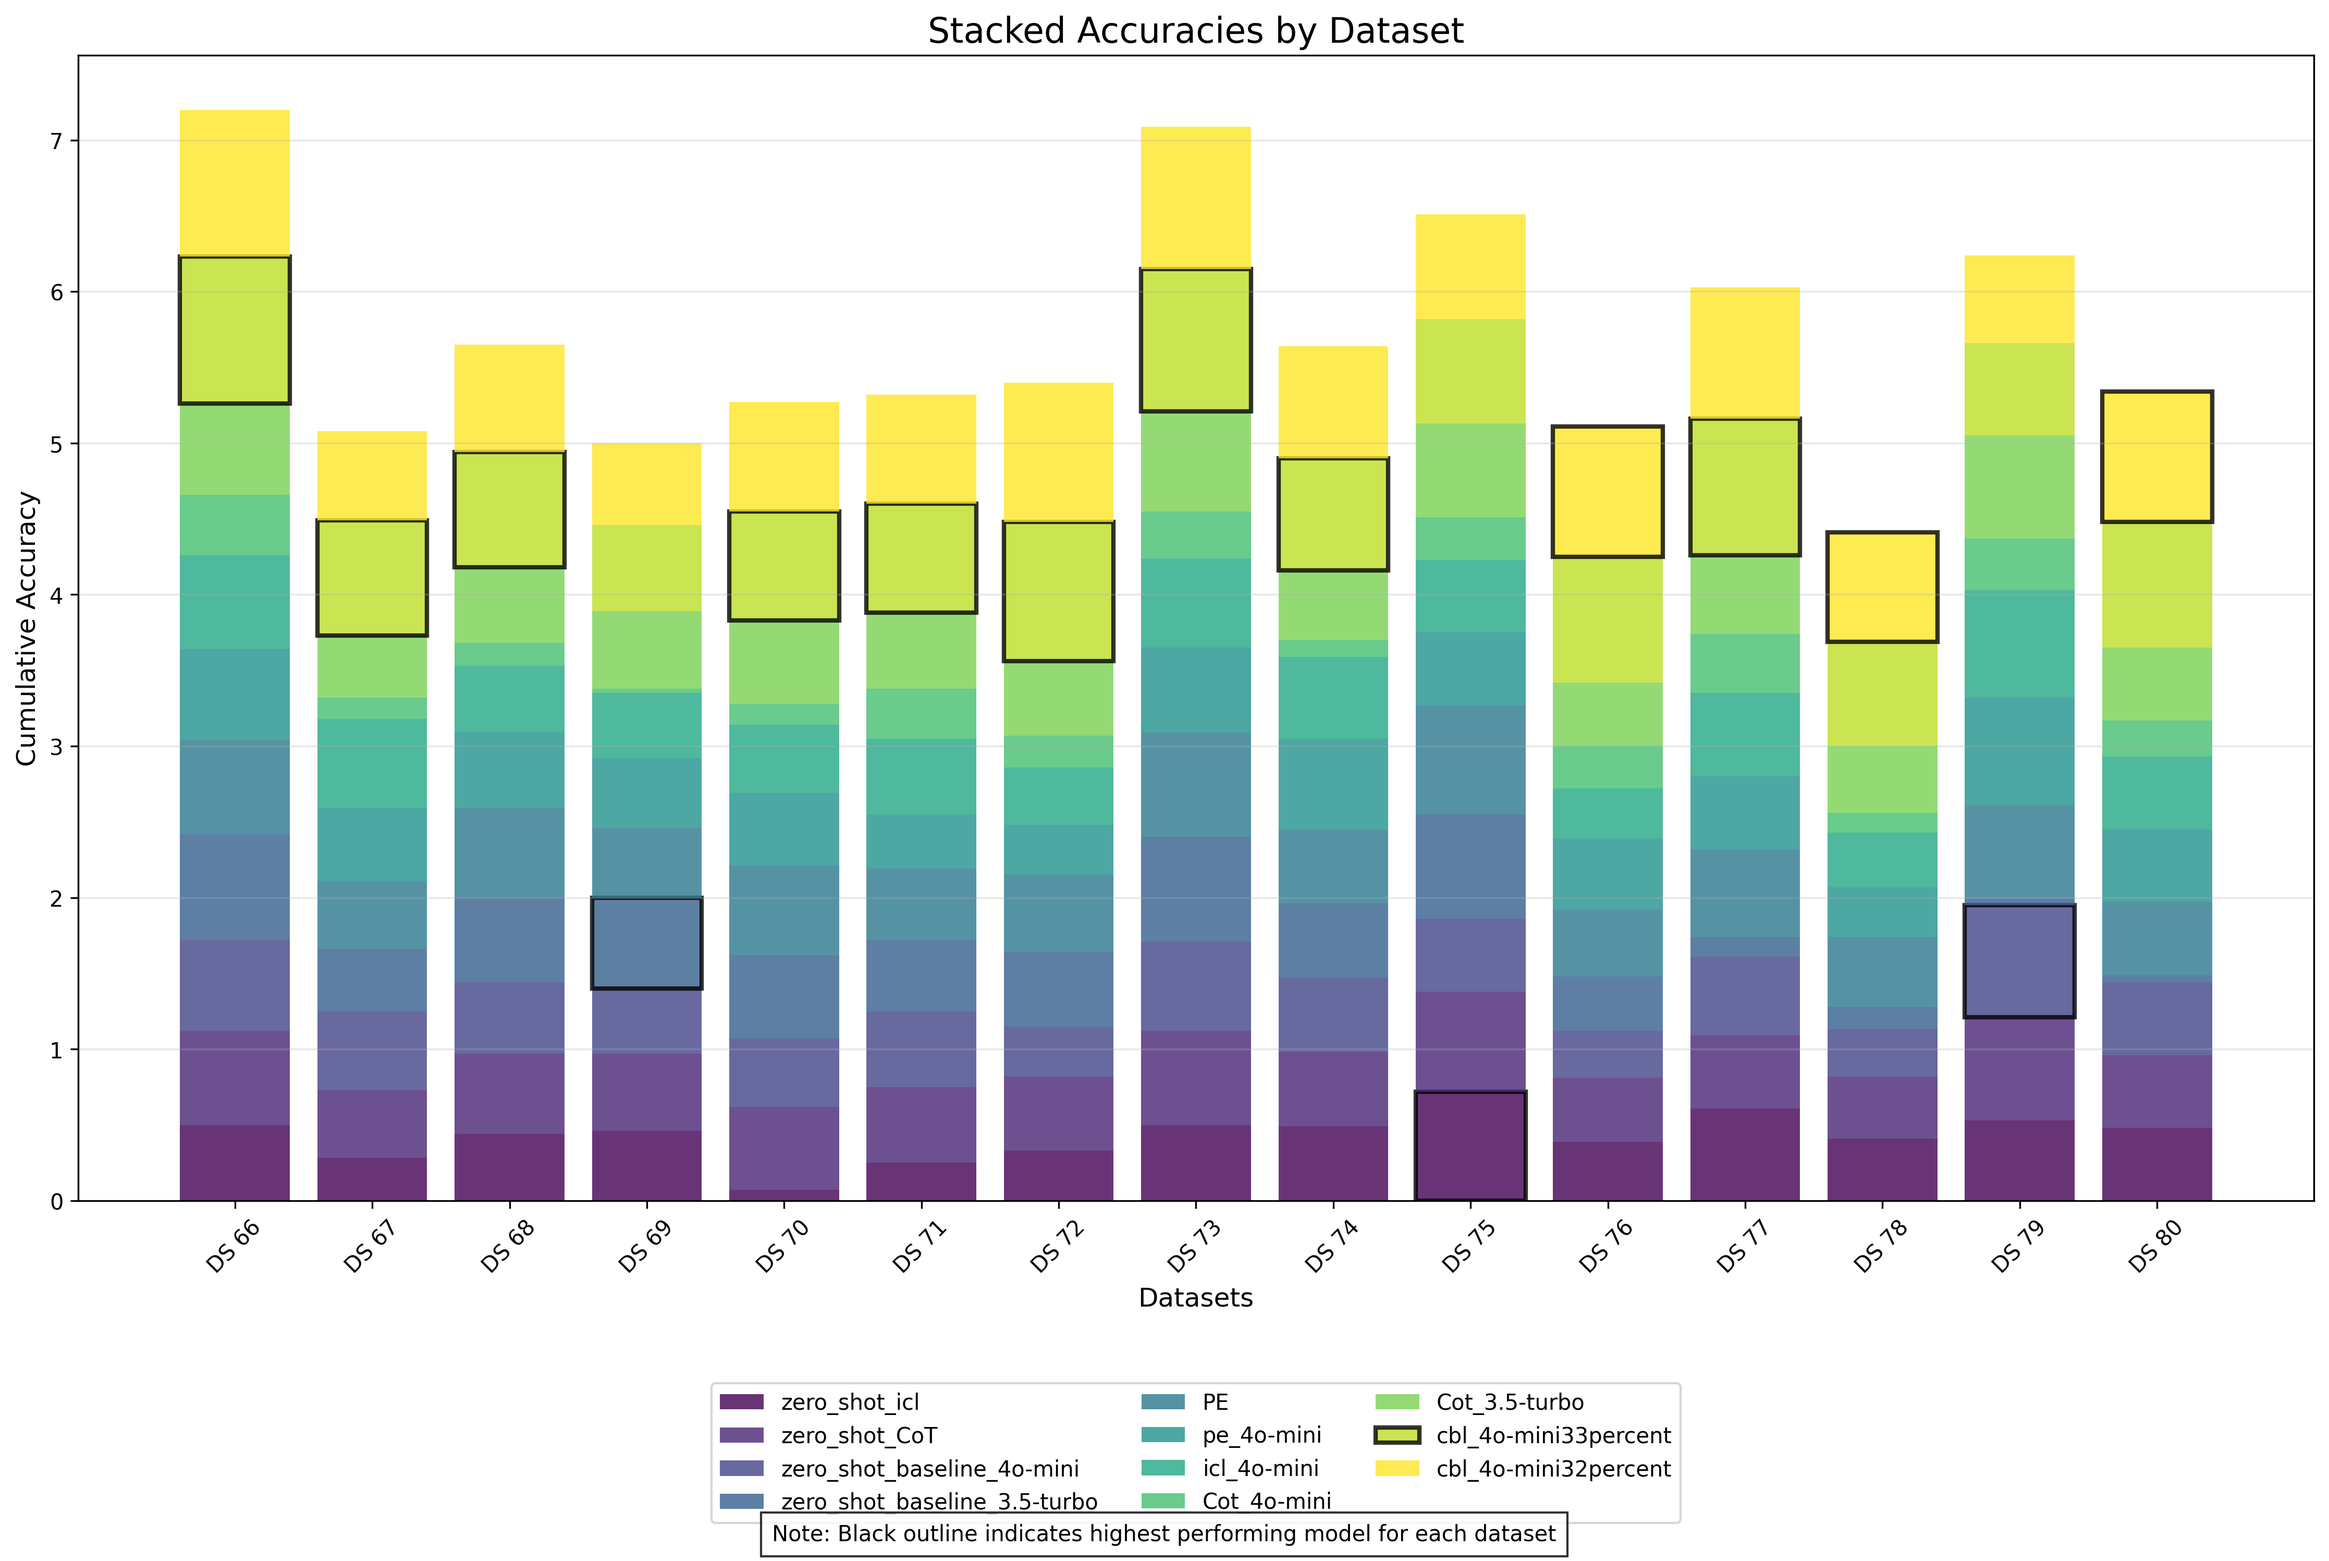
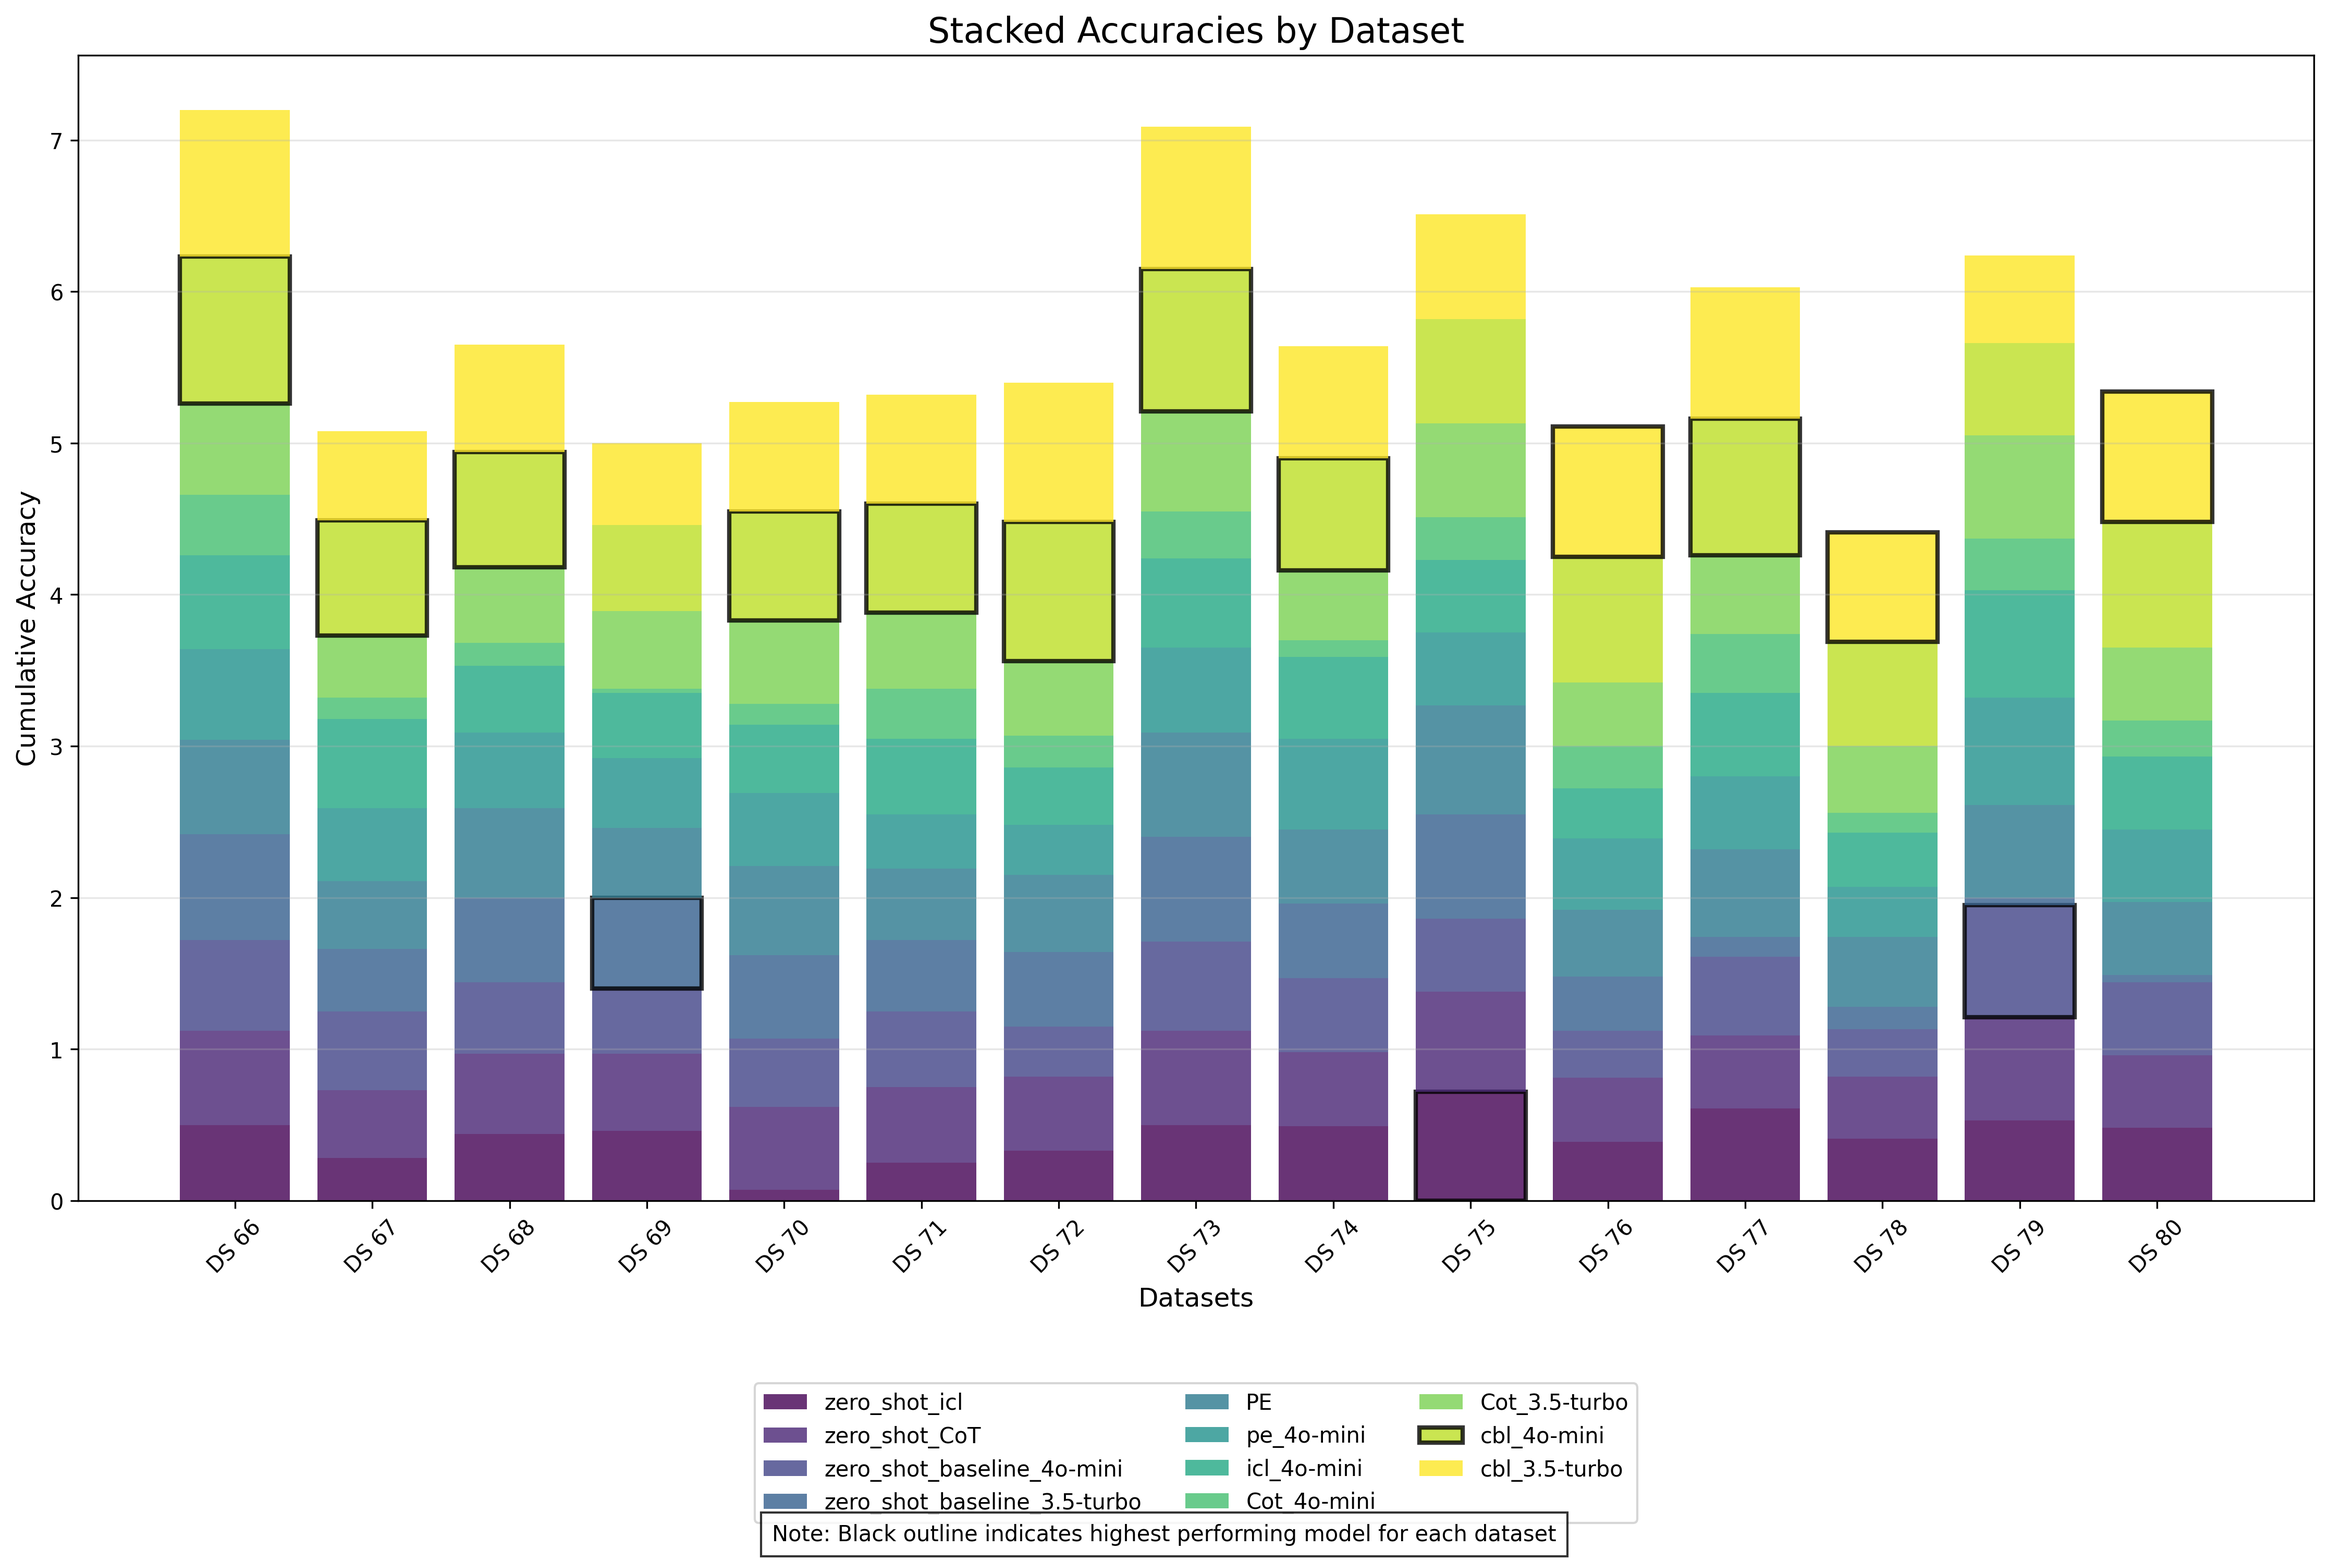
updated names

Changed region(s): [[0.3111, 0.8697, 0.7155, 0.994]]

diff --git a/utilities/dataset_viz.py b/utilities/dataset_viz.py
@@ -249,9 +249,9 @@ class DatasetVisualizer:
 # Example usage
 if __name__ == "__main__":
     visualizer = DatasetVisualizer()
-    # visualizer.create_stacked_by_dataset()
-    # visualizer.create_stacked_by_model()
-    # visualizer.create_overall_comparison()
+    visualizer.create_stacked_by_dataset()
+    visualizer.create_stacked_by_model()
+    visualizer.create_overall_comparison()
     visualizer.create_type_accuracy_graph()
     print("Visualizations have been created and saved as PNG files.")
 

diff --git a/Type_Accuracy.md b/Type_Accuracy.md
@@ -118,7 +118,7 @@ list[number]    43         91        0.47
 Overall Accuracy: 0.52
 
 
-### Semantic Type Analysis for: responses_cbl_4o-mini33percent.txt
+### Semantic Type Analysis for: responses_cbl_4o-mini.txt
 --------------------------------------------------
 Type            Correct     Total    Accuracy
 --------------------------------------------------
@@ -131,7 +131,7 @@ list[number]    64         91        0.70
 Overall Accuracy: 0.78
 
 
-### Semantic Type Analysis for: responses_cbl_4o-mini32percent.txt
+### Semantic Type Analysis for: responses_cbl_3.5-turbo.txt
 --------------------------------------------------
 Type            Correct     Total    Accuracy
 --------------------------------------------------

diff --git a/Dataset_Accuracy.md b/Dataset_Accuracy.md
@@ -198,7 +198,7 @@ Overall Accuracy: 0.23
 
 Overall Accuracy: 0.52
 
-## Breakdown for model: `model_responses/responses_cbl_4o-mini33percent.txt`
+## Breakdown for model: `model_responses/responses_cbl_4o-mini.txt`
 
 | Dataset | Accuracy |
 |---------|----------|
@@ -220,7 +220,7 @@ Overall Accuracy: 0.52
 
 Overall Accuracy: 0.78
 
-## Breakdown for model: `model_responses/responses_cbl_4o-mini32percent.txt`
+## Breakdown for model: `model_responses/responses_cbl_3.5-turbo.txt`
 
 | Dataset | Accuracy |
 |---------|----------|

diff --git a/Accuracy_Results.md b/Accuracy_Results.md
@@ -32,4 +32,4 @@
     - Accuracy: 0.23
 
 - Code-based prompting 4o-mini:
-    - Accuracy: 0.78
+    - Accuracy: 0.79
